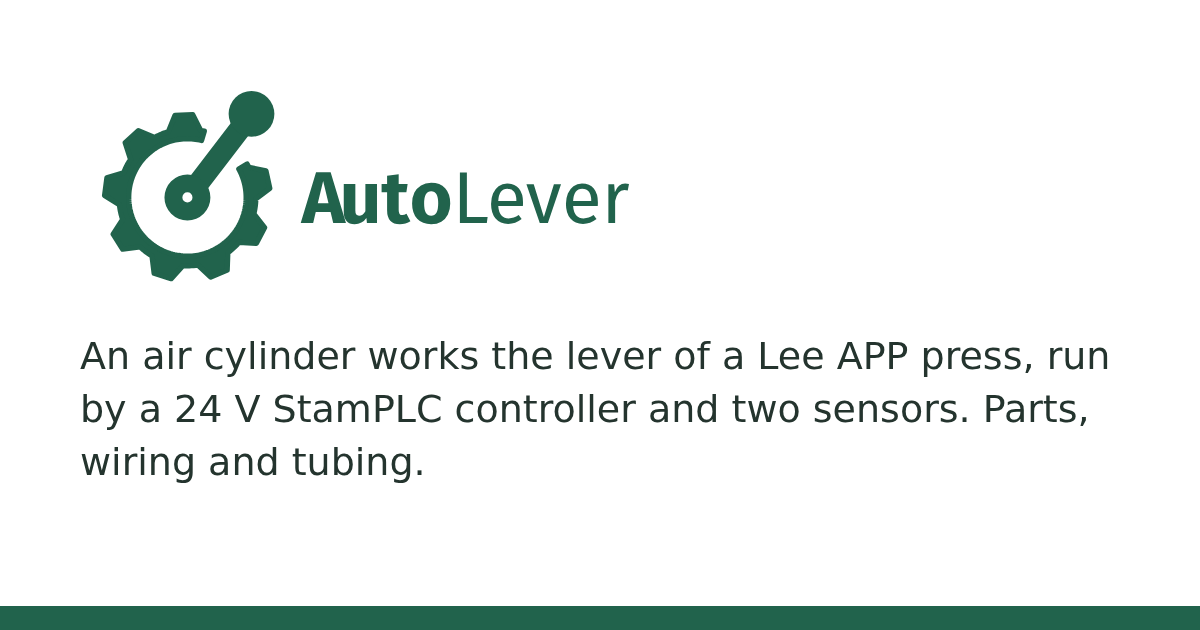
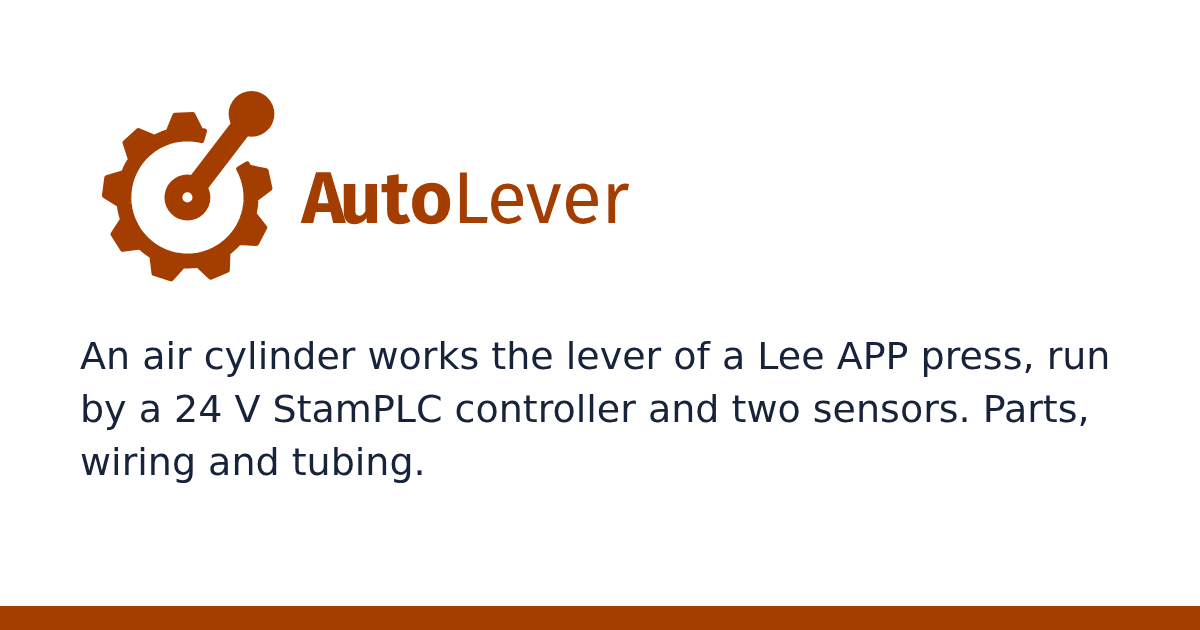
feat(docs): navy and orange tokens, amber safety panel and social card (#102)

Changed region(s): [[0.0, 0.9349, 1.0, 1.0], [0.0617, 0.1508, 0.5242, 0.4524]]

diff --git a/docs/stylesheets/extra.css b/docs/stylesheets/extra.css
@@ -1,39 +1,45 @@
-/* One green token set, shared with the Feeder docs, plus the safety tokens. Light is the default scheme, dark is Material's slate. */
+/* Navy and orange token set plus the amber safety tokens. Light is the first rule (tools/social_card.py reads it), dark is Material's slate. */
 :root,
 [data-md-color-scheme="default"] {
   --page: #ffffff;
-  --surface: #f6f7f4;
-  --surface-alt: #eef2e8;
-  --ink: #24342e;
-  --muted: #5e6c5f;
-  --accent: #21634c;
-  --accent-hover: #174735;
+  --surface: #f4f6fa;
+  --surface-alt: #e9edf4;
+  --ink: #16233a;
+  --muted: #53627a;
+  --accent: #a33d00;
+  --accent-hover: #7f2f00;
   --on-accent: #ffffff;
-  --header-bg: #21634c;
-  --header-ink: #ffffff;
-  --line: #dce3dc;
-  --control-line: #74857a;
-  --warn: #c2410c;
-  --danger: #b3261e;
-  --danger-tint: #fdecea;
+  --link: #0b5cad;
+  --link-hover: #16233a;
+  --header-bg: #ffffff;
+  --header-ink: #16233a;
+  --line: #d5dce8;
+  --control-line: #6a7a94;
+  --warn-text: #7a4f00;
+  --warn-border: #e0b84a;
+  --warn-fill: #fff6db;
+  --warn-body: #16233a;
 }
 
 [data-md-color-scheme="slate"] {
-  --page: #171c19;
-  --surface: #202722;
-  --surface-alt: #2b352e;
-  --ink: #e4ebe6;
-  --muted: #a9b6ac;
-  --accent: #72d6aa;
-  --accent-hover: #9be6c4;
-  --on-accent: #10231b;
-  --header-bg: #1b2622;
-  --header-ink: #e4ebe6;
-  --line: #3b4740;
-  --control-line: #6f8076;
-  --warn: #f59e0b;
-  --danger: #ff8a80;
-  --danger-tint: #3a1f1f;
+  --page: #0d1522;
+  --surface: #121d2e;
+  --surface-alt: #172438;
+  --ink: #e9eff8;
+  --muted: #a2b2c9;
+  --accent: #ff7a2f;
+  --accent-hover: #ff9657;
+  --on-accent: #0d1522;
+  --link: #7cc0ff;
+  --link-hover: #b5dbff;
+  --header-bg: #0d1522;
+  --header-ink: #e9eff8;
+  --line: #263650;
+  --control-line: #6a82aa;
+  --warn-text: #f5c518;
+  --warn-border: #6b5a12;
+  --warn-fill: #1a1a12;
+  --warn-body: #e1e6ee;
 }
 
 /* Material variables from the tokens */
@@ -48,11 +54,11 @@
   --md-primary-fg-color--dark: var(--header-bg);
   --md-primary-bg-color: var(--header-ink);
   --md-primary-bg-color--light: var(--header-ink);
-  --md-accent-fg-color: var(--accent-hover);
+  --md-accent-fg-color: var(--link-hover);
   --md-accent-fg-color--transparent: transparent;
   --md-accent-bg-color: var(--header-ink);
   --md-typeset-color: var(--ink);
-  --md-typeset-a-color: var(--accent);
+  --md-typeset-a-color: var(--link);
   --md-typeset-table-color: var(--line);
   --md-typeset-table-color--light: var(--surface);
   --md-code-bg-color: var(--surface-alt);
@@ -79,28 +85,36 @@ button:focus-visible {
   outline-color: var(--header-ink);
 }
 
-[data-md-color-scheme="slate"] .md-header {
+.md-header {
   border-bottom: 1px solid var(--line);
 }
 
-/* The safety admonition: a left bar in the danger tokens, no title slab or icon, text at 16 px so it stays short on a phone */
+/* The logo file is white for the dark header; on the white light header it is drawn black */
+[data-md-color-scheme="default"] .md-header .md-logo img {
+  filter: brightness(0);
+}
+
+/* The safety admonition: the amber panel, no title slab or icon, the title in small monospace capitals, text at 16 px so it stays short on a phone */
 .md-typeset .admonition.danger {
-  border: 0;
-  border-left: 0.2rem solid var(--danger);
-  border-radius: 0 0.2rem 0.2rem 0;
+  border: 1px solid var(--warn-border);
+  border-radius: 14px;
   box-shadow: none;
-  background-color: var(--danger-tint);
+  background-color: var(--warn-fill);
+  color: var(--warn-body);
   font-size: 0.8rem;
   padding: 0 0.8rem 0.1rem;
 }
 
 .md-typeset .danger > .admonition-title {
   margin: 0;
-  padding: 0.5rem 0 0;
+  padding: 0.6rem 0 0;
   background: none;
-  color: var(--danger);
-  font-size: 0.8rem;
+  color: var(--warn-text);
+  font-family: var(--md-code-font-family);
+  font-size: 0.65rem;
   font-weight: 700;
+  letter-spacing: 0.08em;
+  text-transform: uppercase;
 }
 
 .md-typeset .danger > .admonition-title::before {
@@ -153,7 +167,7 @@ button:focus-visible {
   --ag-surface-head: var(--surface-alt);
 }
 
-/* Material dims inactive tabs to 0.7, 4.4:1 on the light header; 0.85 keeps them apart from the active tab and above 4.5:1 */
+/* Material dims inactive tabs to 0.7; 0.85 keeps them apart from the active tab and above 4.5:1 */
 .md-tabs__link {
   opacity: 0.85;
 }
@@ -328,18 +342,21 @@ button:focus-visible {
   /* Always the light tokens on paper, also when the dark scheme is active on screen */
   [data-md-color-scheme="slate"] {
     --page: #ffffff;
-    --surface: #f6f7f4;
-    --surface-alt: #eef2e8;
-    --ink: #24342e;
-    --muted: #5e6c5f;
-    --accent: #21634c;
-    --line: #dce3dc;
-    --control-line: #74857a;
-    --danger: #b3261e;
-    --danger-tint: #fdecea;
+    --surface: #f4f6fa;
+    --surface-alt: #e9edf4;
+    --ink: #16233a;
+    --muted: #53627a;
+    --accent: #a33d00;
+    --link: #0b5cad;
+    --line: #d5dce8;
+    --control-line: #6a7a94;
+    --warn-text: #7a4f00;
+    --warn-border: #e0b84a;
+    --warn-fill: #fff6db;
+    --warn-body: #16233a;
   }
 
-  /* The danger tint and the board drawing keep their colours when the browser would drop backgrounds */
+  /* The warn fill and the board drawing keep their colours when the browser would drop backgrounds */
   .md-typeset .admonition.danger,
   .ag-guide .ag-board-canvas {
     print-color-adjust: exact;

diff --git a/tests/check_guide.py b/tests/check_guide.py
@@ -319,7 +319,7 @@ with sync_playwright() as p:
         assert page.evaluate("[...document.querySelectorAll('.joint-paper')].every(e=>e.getBoundingClientRect().right<=innerWidth)"),'board cut off in print: '+slug
         for hidden in ['.ag-progress','.ag-status','.ag-result-count','.ag-connection-detail','.ag-board-toolbar']:
             expect(page.locator(hidden)).to_be_hidden()
-        expect(page.locator('main h1')).to_have_css('color','rgb(36, 52, 46)')
+        expect(page.locator('main h1')).to_have_css('color','rgb(22, 35, 58)')
         expect(page.locator('main h1 + .admonition.danger')).to_be_visible()
     page.emulate_media(media='null',color_scheme='null')
     # Self-hosted search under the base path: opens, finds a word of the introduction, links stay under the prefix; on a phone and on a desktop, light and dark, the controls are 24 px or more with text contrast of 4.5:1 or more.

diff --git a/tools/social_card.py b/tools/social_card.py
@@ -23,7 +23,7 @@ def card_html() -> str:
     return f"""<body style="margin:0;width:1200px;height:630px;background:{token["page"]};font:38px/1.4 system-ui,sans-serif;color:{token["ink"]}">
 <div style="position:absolute;left:80px;top:90px;width:560px">{logo}</div>
 <p style="position:absolute;left:80px;top:330px;width:1040px;margin:0">{html.escape(config["site_description"])}</p>
-<div style="position:absolute;left:0;bottom:0;width:1200px;height:24px;background:{token["header-bg"]}"></div></body>"""
+<div style="position:absolute;left:0;bottom:0;width:1200px;height:24px;background:{token["accent"]}"></div></body>"""
 
 
 if __name__ == "__main__":

diff --git a/tests/test_social_card.py b/tests/test_social_card.py
@@ -18,7 +18,7 @@ def test_card_page_uses_the_light_tokens_and_the_site_description():
     description = site_config()["site_description"]
     assert html.escape(description) in page
     assert "#000" not in page  # the black logo is recoloured
-    for name in ("page", "ink", "accent", "header-bg"):
+    for name in ("page", "ink", "accent"):
         token = re.search(rf"--{name}:\s*(#\w+);", light)
         assert token
         assert token[1] in page, name
